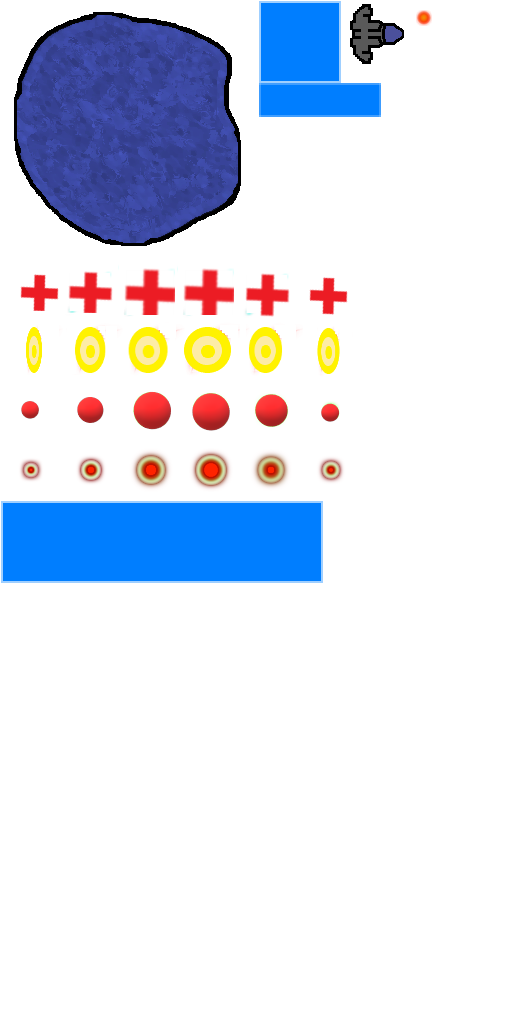
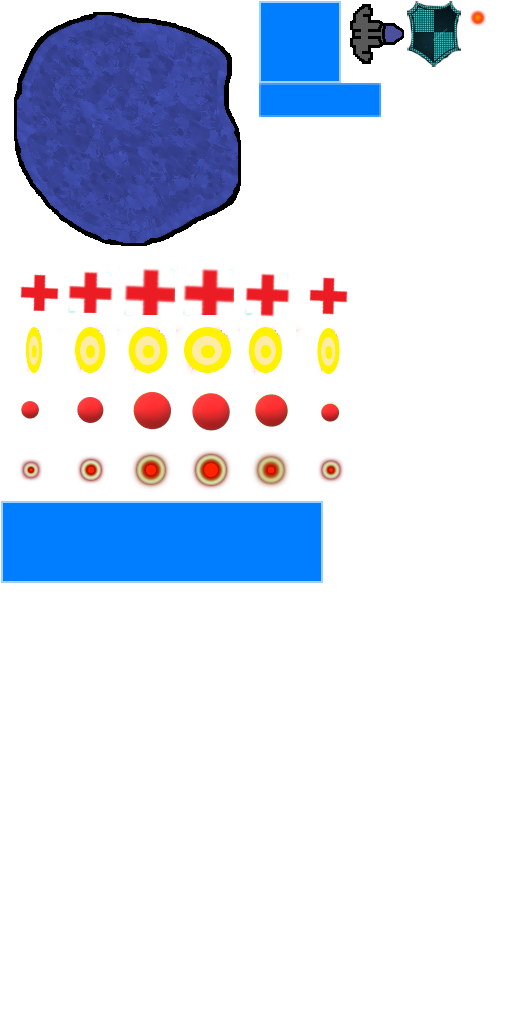
add homework8

Changed region(s): [[0.7812, 0.0, 0.9688, 0.0625]]

diff --git a/core/src/com/star/app/game/Hero.java b/core/src/com/star/app/game/Hero.java
@@ -29,6 +29,9 @@ public class Hero extends Ship {
     private int scoreView;
     private StringBuilder sb;
     private int money;
+    private int level = 1;
+    private float timeField;
+    private boolean isImmortal;
     private Shop shop;
     private Circle magneticField;
 
@@ -50,6 +53,18 @@ public class Hero extends Ship {
 
     public boolean isMoneyEnough(int amount) {
         return money >= amount;
+    }
+
+    public void incLevel() {
+        level++;
+    }
+
+    public int getLevel() {
+        return level;
+    }
+
+    public boolean getIsImmortal() {
+        return isImmortal;
     }
 
     public void decreaseMoney(int amount) {
@@ -77,6 +92,14 @@ public class Hero extends Ship {
         score += amount;
     }
 
+    public void takeDamage(int amount) {
+        if(!isImmortal) {
+            hp -= amount;
+            isTakeDamage = true;
+            damageTime = 0.1f;
+        }
+    }
+
     public void consume(PowerUp p) {
         sb.setLength(0);
         switch (p.getType()) {
@@ -91,13 +114,17 @@ public class Hero extends Ship {
                 break;
             case AMMOS:
                 int count = currentWeapon.addAmmos(p.getPower());
-                sb.append("AMMOS +").append(count);
+                sb.append("AMMO +").append(count);
                 gc.getInfoController().setup(p.getPosition().x, p.getPosition().y, sb,Color.RED );
                 break;
             case MONEY:
                 money += p.getPower();
                 sb.append("MONEY +").append(p.getPower());
                 gc.getInfoController().setup(p.getPosition().x, p.getPosition().y, sb,Color.YELLOW );
+                break;
+            case FIELD:
+                timeField = 5;
+                isImmortal = true;
                 break;
         }
     }
@@ -141,6 +168,7 @@ public class Hero extends Ship {
         sb.append("MONEY: ").append(money).append("\n");
         sb.append("MAGNETIC: ").append((int) magneticField.radius).append("\n");
         sb.append("TIMER: ").append((int) gc.getTimer()).append("\n");
+        sb.append("LEVEL: ").append(gc.getLevel()).append("\n");
         font.draw(batch, sb, 20, 700);
     }
 
@@ -152,8 +180,12 @@ public class Hero extends Ship {
     public void update(float dt) {
         super.update(dt);
         updateScore(dt);
+        timeField-=dt;
+        if (timeField < 0) {
+            isImmortal = false;
+        }
 
-        if (Gdx.input.isKeyPressed(Input.Keys.P)) {
+        if (Gdx.input.isKeyPressed(Input.Keys.E)) {
             shop.setVisible(true);
             gc.setPause(true);
         }

diff --git a/core/src/com/star/app/game/PowerUpsController.java b/core/src/com/star/app/game/PowerUpsController.java
@@ -9,6 +9,7 @@ import com.star.app.screen.utils.Assets;
 public class PowerUpsController extends ObjectPool<PowerUp> {
     private GameController gc;
     private TextureRegion[][] textures;
+    private TextureRegion textureField;
 
     @Override
     protected PowerUp newObject() {
@@ -19,11 +20,18 @@ public class PowerUpsController extends ObjectPool<PowerUp> {
         this.gc = gc;
         this.textures = new TextureRegion(Assets.getInstance().getAtlas().findRegion("powerups"))
                 .split(60, 60);
+        this.textureField = new TextureRegion(Assets.getInstance().getAtlas().findRegion("field"));
     }
 
     public void render(SpriteBatch batch) {
         for (int i = 0; i < activeList.size(); i++) {
             PowerUp p = activeList.get(i);
+            if (p.getType() == PowerUp.Type.FIELD) {
+                batch.draw(textureField, p.getPosition().x-27, p.getPosition().y-32, 27, 32, 54,
+                        64, 0.8f, 0.8f,
+                        (p.getTime() - (int) p.getTime()) > 0.5 ? 15*(p.getTime() - (int) p.getTime()) : -15*(1-(p.getTime() - (int) p.getTime())));
+                continue;
+            }
             int frameIndex = (int)(p.getTime() / 0.1f) % textures[p.getType().index].length;
             batch.draw(textures[p.getType().index][frameIndex], p.getPosition().x - 30, p.getPosition().y - 30);
         }
@@ -31,7 +39,7 @@ public class PowerUpsController extends ObjectPool<PowerUp> {
 
     public void setup(float x, float y, float probability) {
         if (MathUtils.random() <= probability) {
-            getActiveElement().activate(PowerUp.Type.values()[MathUtils.random(0, 2)], x, y, 30);
+            getActiveElement().activate((Math.random()*100 <= 3) ? PowerUp.Type.values()[3] : PowerUp.Type.values()[MathUtils.random(0, 2)], x, y, 30);
         }
     }
 
@@ -41,4 +49,5 @@ public class PowerUpsController extends ObjectPool<PowerUp> {
         }
         checkPool();
     }
+
 }

diff --git a/core/src/com/star/app/game/Ship.java b/core/src/com/star/app/game/Ship.java
@@ -22,6 +22,8 @@ public class Ship {
     protected int weaponNum;
     protected Weapon[] weapons;
     protected OwnerType ownerType;
+    protected boolean isTakeDamage;
+    protected float damageTime;
 
     public OwnerType getOwnerType() {
         return ownerType;
@@ -45,6 +47,10 @@ public class Ship {
 
     public float getAngle() {
         return angle;
+    }
+
+    public boolean getIsTakeDamage() {
+        return isTakeDamage;
     }
 
     public boolean isAlive() {
@@ -76,6 +82,11 @@ public class Ship {
         fireTimer += dt;
         position.mulAdd(velocity, dt);
         hitArea.setPosition(position);
+        damageTime -= dt;
+        if(damageTime < 0) {
+            damageTime = 0;
+            isTakeDamage = false;
+        }
 
         float stopKoef = 1.0f - dt;
         if (stopKoef < 0.0f) {
@@ -87,6 +98,8 @@ public class Ship {
 
     public void takeDamage(int amount) {
         hp -= amount;
+        isTakeDamage = true;
+        damageTime = 0.1f;
     }
 
     private void createWeapons() {

diff --git a/core/src/com/star/app/game/WorldRenderer.java b/core/src/com/star/app/game/WorldRenderer.java
@@ -32,7 +32,17 @@ public class WorldRenderer {
         gc.getPowerUpsController().render(batch);
         gc.getBotController().render(batch);
         gc.getInfoController().render(batch, font32);
+        if(gc.getHero().getIsTakeDamage()) {
+            batch.setColor(1, 0, 0, 1);
+        }
         gc.getHero().render(batch);
+        batch.setColor(1, 1, 1, 1);
+        if(gc.getHero().getIsImmortal()) {
+            batch.setColor(0, 0.5f, 1, 0.65f);
+            batch.draw(gc.getBackground().getTextureStar(), gc.getHero().position.x - 8, gc.getHero().position.y - 8,
+                    8, 8, 16, 16, 12, 12, 0, false);
+            batch.setColor(1, 1, 1, 1);
+        }
         gc.getHero().renderGUI(batch, font32);
         if (gc.getTimer() < 3) {
             sb.setLength(0);

diff --git a/core/src/com/star/app/game/ParticleController.java b/core/src/com/star/app/game/ParticleController.java
@@ -49,6 +49,16 @@ public class ParticleController extends ObjectPool<Particle> {
                                 1, 0, 0.8f, 0.4f);
                     }
                     break;
+                case FIELD:
+                    for (int i = 0; i < 16; i++) {
+                        float angle = 6.28f / 16.0f * i;
+                        setup(p.getPosition().x, p.getPosition().y,
+                                (float) Math.cos(angle) * 100.0f, (float) Math.sin(angle) * 100.0f,
+                                0.8f, 3.0f, 2.5f,
+                                0, 0, 1, 1,
+                                0, 0.3f, 0.8f, 0.4f);
+                    }
+                    break;
             }
         }
 

diff --git a/core/src/com/star/app/screen/GameOverScreen.java b/core/src/com/star/app/screen/GameOverScreen.java
@@ -57,7 +57,7 @@ public class GameOverScreen extends AbstractScreen {
         font72.draw(batch, "Game over", 0, 600, ScreenManager.SCREEN_WIDTH, Align.center, false);
         sb.setLength(0);
         sb.append("SCORE: ").append(defeatedHero.getScore()).append("\n");
-        sb.append("MONEY: ").append(defeatedHero.getMoney()).append("\n");
+        sb.append("LEVEL: ").append(defeatedHero.getLevel()).append("\n");
         font48.draw(batch, sb, 0, 400,ScreenManager.SCREEN_WIDTH, Align.center, false);
         font24.draw(batch, "Tap screen to return to main menu", 0, 40,
                 ScreenManager.SCREEN_WIDTH, Align.center, false);

diff --git a/desktop/src/com/star/app/desktop/DesktopLauncher.java b/desktop/src/com/star/app/desktop/DesktopLauncher.java
@@ -1,5 +1,6 @@
 package com.star.app.desktop;
 
+import com.badlogic.gdx.Files;
 import com.badlogic.gdx.backends.lwjgl.LwjglApplication;
 import com.badlogic.gdx.backends.lwjgl.LwjglApplicationConfiguration;
 import com.star.app.StarGame;
@@ -9,6 +10,7 @@ public class DesktopLauncher {
 		LwjglApplicationConfiguration config = new LwjglApplicationConfiguration();
 		config.height = 720;
 		config.width = 1280;
+		config.addIcon("tools/images/logo.png", Files.FileType.Internal);
 		new LwjglApplication(new StarGame(), config);
 	}
 }

diff --git a/core/src/com/star/app/game/Bot.java b/core/src/com/star/app/game/Bot.java
@@ -24,7 +24,7 @@ public class Bot extends Ship implements Poolable {
         this.active = false;
         this.tempVec = new Vector2();
         this.ownerType = OwnerType.BOT;
-        this.weaponNum = MathUtils.random(gc.getLevel() + 1);
+        this.weaponNum = MathUtils.random((gc.getLevel() + 1 > weapons.length-1) ? (weapons.length-1) : gc.getLevel() + 1);
         this.currentWeapon = weapons[weaponNum];
     }
 

diff --git a/core/src/com/star/app/game/BotController.java b/core/src/com/star/app/game/BotController.java
@@ -20,7 +20,11 @@ public class BotController extends ObjectPool<Bot> {
     public void render(SpriteBatch batch) {
         for (int i = 0; i < activeList.size(); i++) {
             Bot b = activeList.get(i);
+            if(b.getIsTakeDamage()) {
+                batch.setColor(1, 0, 0, 1);
+            }
             b.render(batch);
+            batch.setColor(1, 1, 1, 1);
         }
     }
 

diff --git a/core/src/com/star/app/game/GameController.java b/core/src/com/star/app/game/GameController.java
@@ -127,6 +127,7 @@ public class GameController {
         }
         if (asteroidController.getActiveList().size() == 0) {
             level++;
+            hero.incLevel();
             generateBigAsteroids(level + 2);
             timer = 0;
         }

diff --git a/core/src/com/star/app/game/PowerUp.java b/core/src/com/star/app/game/PowerUp.java
@@ -6,7 +6,7 @@ import com.star.app.game.helpers.Poolable;
 
 public class PowerUp implements Poolable {
     public enum Type {
-        MEDKIT(0), MONEY(1), AMMOS(2);
+        MEDKIT(0), MONEY(1), AMMOS(2), FIELD(3);
 
         int index;
 

diff --git a/core/src/com/star/app/game/Background.java b/core/src/com/star/app/game/Background.java
@@ -76,4 +76,7 @@ public class Background {
         textureCosmos.dispose();
     }
 
+    public TextureRegion getTextureStar() {
+        return textureStar;
+    }
 }
